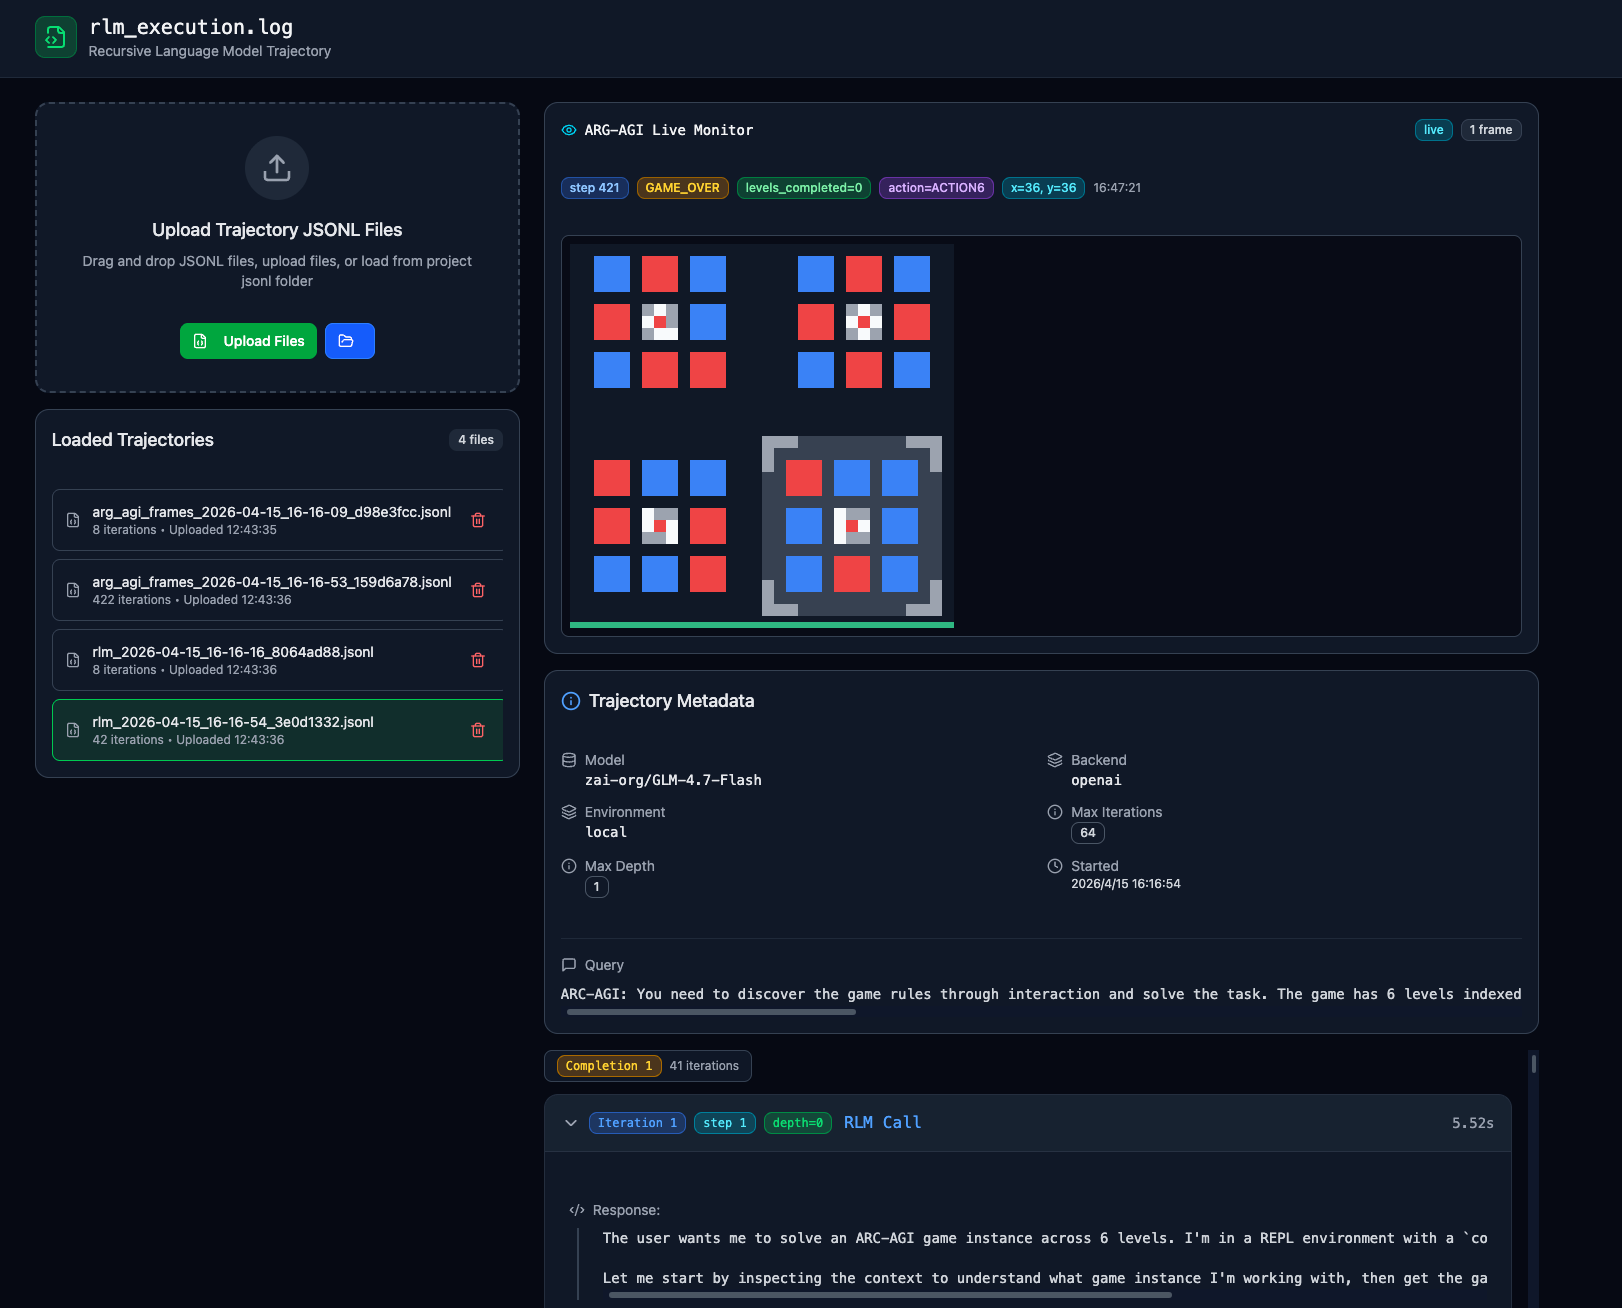
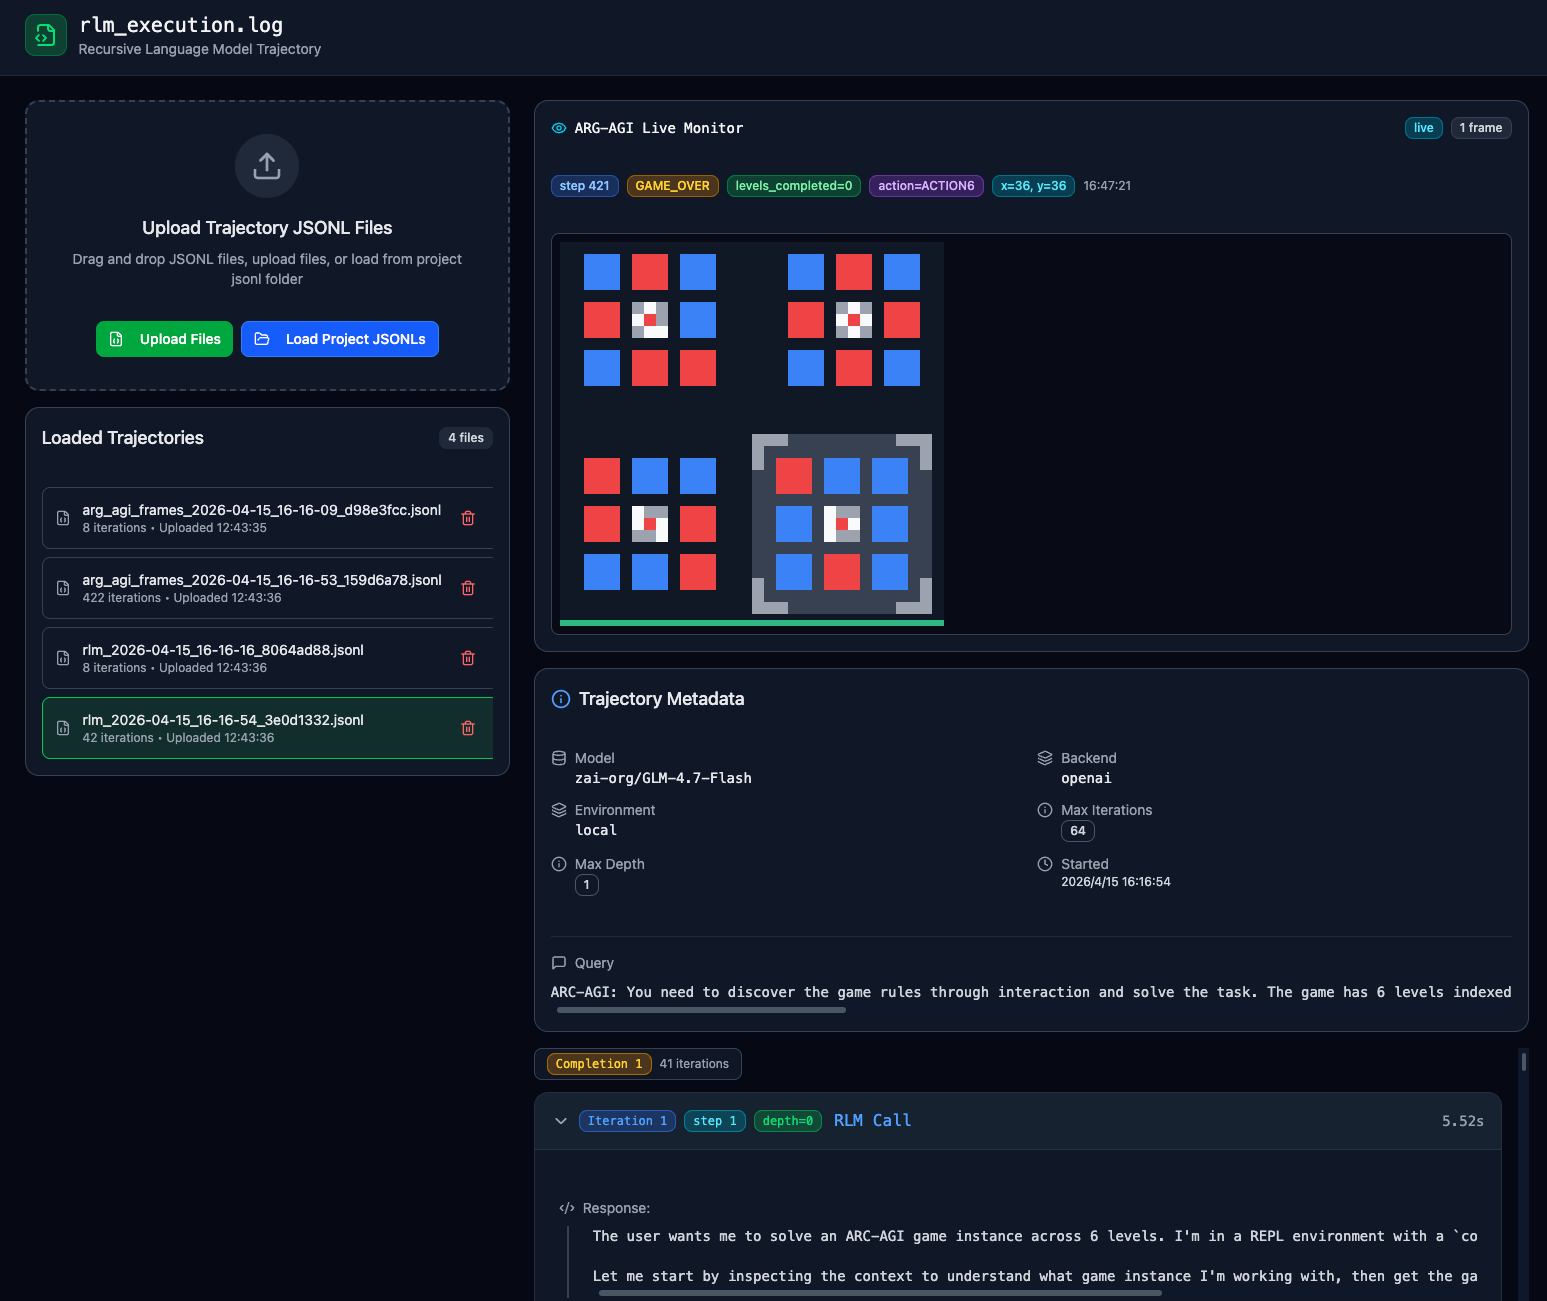
Refresh trajectory viewer showcase

diff --git a/README.md b/README.md
@@ -19,9 +19,10 @@ The interactive viewer supports:
 - drag-and-drop playback of RLM and ARC environment JSONL logs;
 - live monitoring and offline inspection of long trajectories;
 - synchronized frames, actions, model responses, REPL/tool outputs, and timing;
+- per-action post-state reconstruction from structured events, paired frame logs, or legacy REPL outputs;
 - completion- and iteration-level navigation across multiple runs.
 
-Viewer source: [Trajectoryvisualizationwebpage](https://github.com/yuran986/Trajectoryvisualizationwebpage)
+Viewer source and detailed documentation: [Trajectoryvisualizationwebpage](https://github.com/yuran986/Trajectoryvisualizationwebpage)
 
 ## Research questions
 

diff --git a/README_zh-CN.md b/README_zh-CN.md
@@ -19,9 +19,10 @@
 - 拖放并回放 RLM 与 ARC 环境的 JSONL 日志；
 - 实时监控和离线检查长程轨迹；
 - 同步展示画面、动作、模型回复、REPL/工具输出与耗时；
+- 从结构化事件、配套 frame 日志或旧版 REPL 输出中重建每次动作后的状态；
 - 在多次运行之间按 completion 和 iteration 导航。
 
-Viewer 源码：[Trajectoryvisualizationwebpage](https://github.com/yuran986/Trajectoryvisualizationwebpage)
+Viewer 源码与详细文档：[Trajectoryvisualizationwebpage](https://github.com/yuran986/Trajectoryvisualizationwebpage)
 
 ## 研究问题
 
